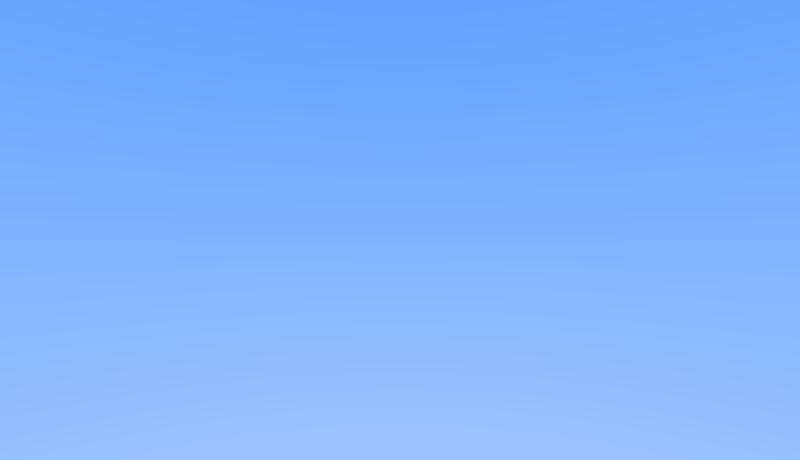
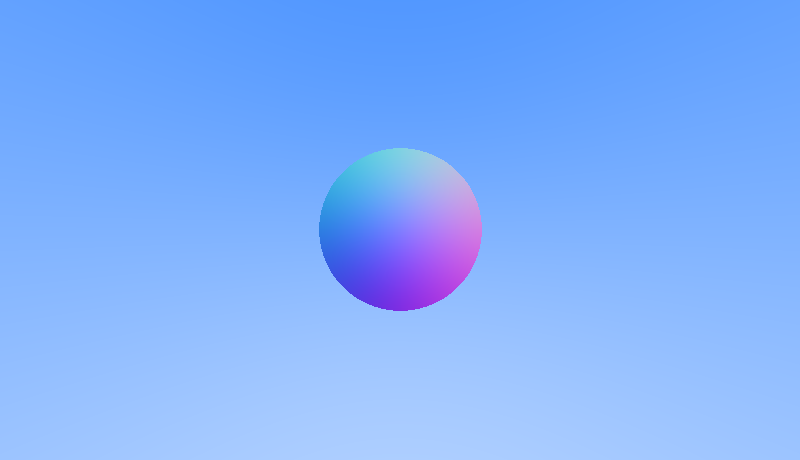
Added implementation of sphere intersection

Changed region(s): [[0.375, 0.3043, 0.625, 0.7]]

diff --git a/src/main.cpp b/src/main.cpp
@@ -17,6 +17,7 @@
 #define OUTPUT_HEIGHT 460
 #define NUM_CHANNELS 3
 
+// Temp objects until we set up proper scene management
 Vector3f SkyGradient(const Ray& r)
 {
     Vector3f skyBlue(0.5f, 0.7f, 1.0f);
@@ -27,6 +28,44 @@ Vector3f SkyGradient(const Ray& r)
 
     return LERP(white, skyBlue, t);
 }
+
+float RaycastSphere(const Ray& ray, const Vector3f& center, float radius)
+{
+    Vector3 oc = ray.GetOrigin() - center;
+    float a = Dot(ray.GetDirection(), ray.GetDirection());
+    float b = 2.0f * Dot(oc, ray.GetDirection());
+    float c = Dot(oc, oc) - radius * radius;
+    float discriminant = b * b - 4 * a * c;
+
+    // solve quadratic equation to find t
+    if (discriminant < 0)
+    {
+        // no real value, did not intersect sphere
+        return -1.0f;
+    }
+    else
+    {
+        return (-b - sqrt(discriminant) / (2.0f * a));
+    }
+}
+
+Vector3f ShadePixel(const Ray& viewRay)
+{
+    Vector3f spherePosition = Vector3f(0.0f, 0.0f, 3.0f);
+    float sphereIntersect = RaycastSphere(viewRay, spherePosition, 1.0f);
+
+    if (sphereIntersect > 0.0f)
+    {
+        Vector3f normals = (viewRay.Evaluate(sphereIntersect) - spherePosition).Normalized();
+        return 0.5f * Vector3(normals.x + 1, normals.y + 1, normals.z + 1);
+    }
+    else
+    {
+        return SkyGradient(viewRay);
+    }
+}
+
+// ! Temp object
 
 int main()
 {
@@ -42,15 +81,14 @@ int main()
         for (int x = 0; x < OUTPUT_WIDTH; x++)
         {
             const Vector3f fragCoord(float(x), float(y), 0.0f);
-            const Vector3f uv = (fragCoord - 0.5f * resolution) / resolution.y;
+            const Vector3f uv = (fragCoord - 0.5f * resolution) / resolution.y * 2.0f;
 
             // View ray
             const Vector3f origin = Vector3f::Zero();
             const Vector3f direction = Vector3f(uv.x, uv.y, 1.0f).Normalized();
             const Ray viewRay(origin, direction, 1000.0f);
 
-            Vector3f color = SkyGradient(viewRay);
-
+            Vector3f color = ShadePixel(viewRay);
 
             // Clamp color values for ppm
             color.x = SATURATE(color.x);
